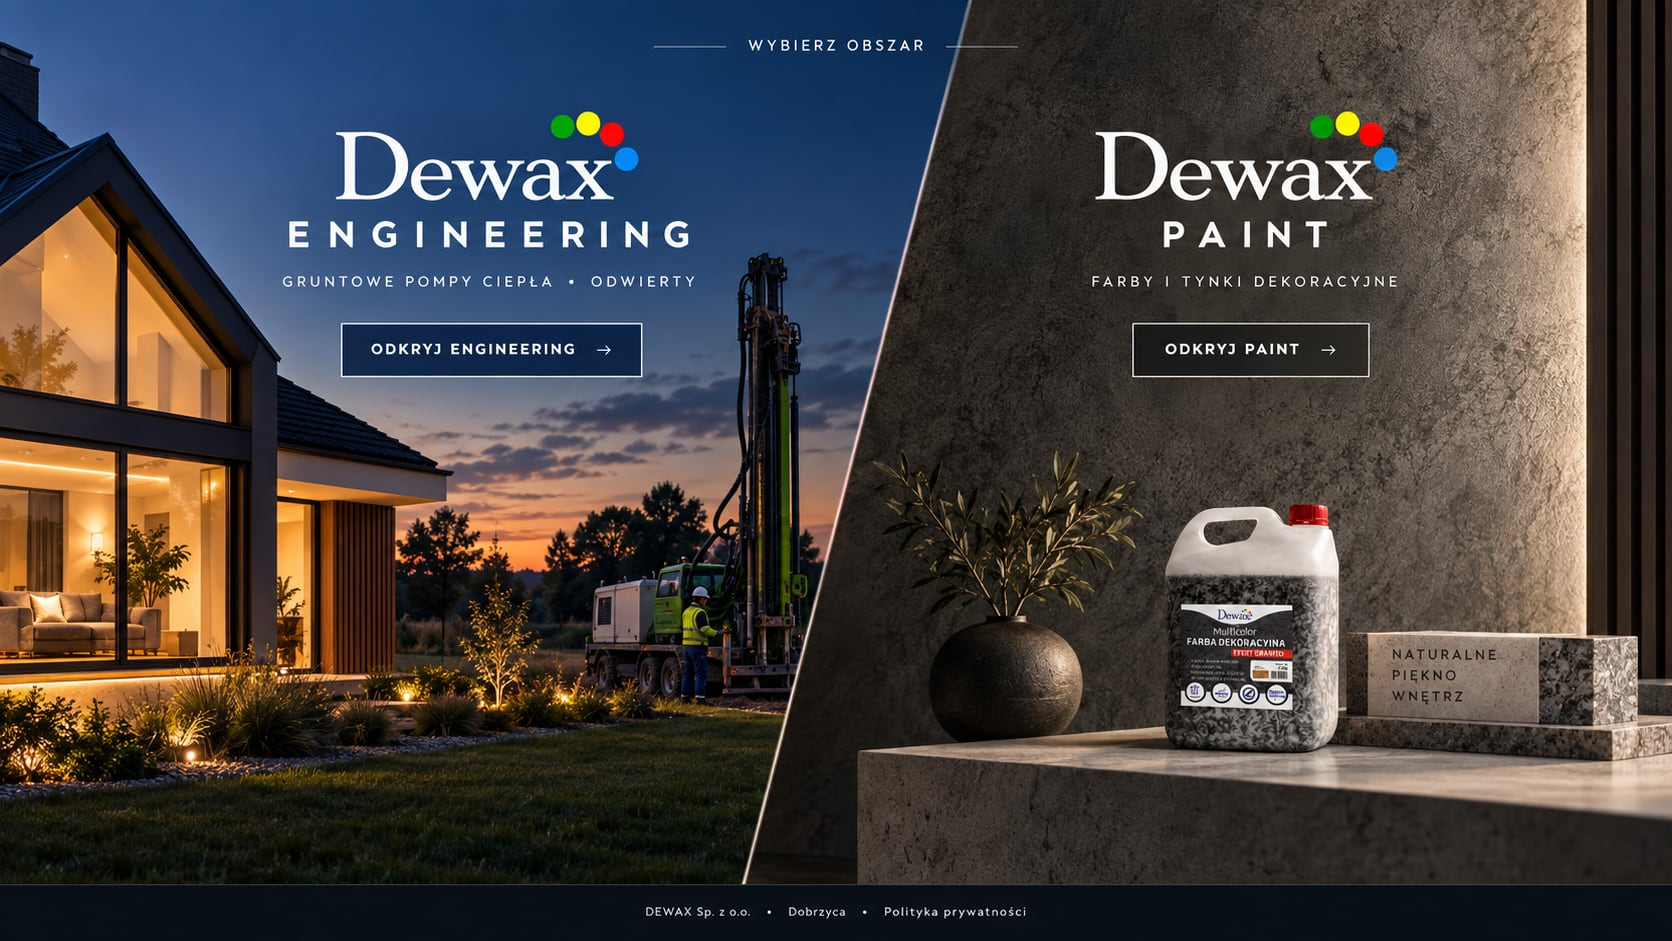
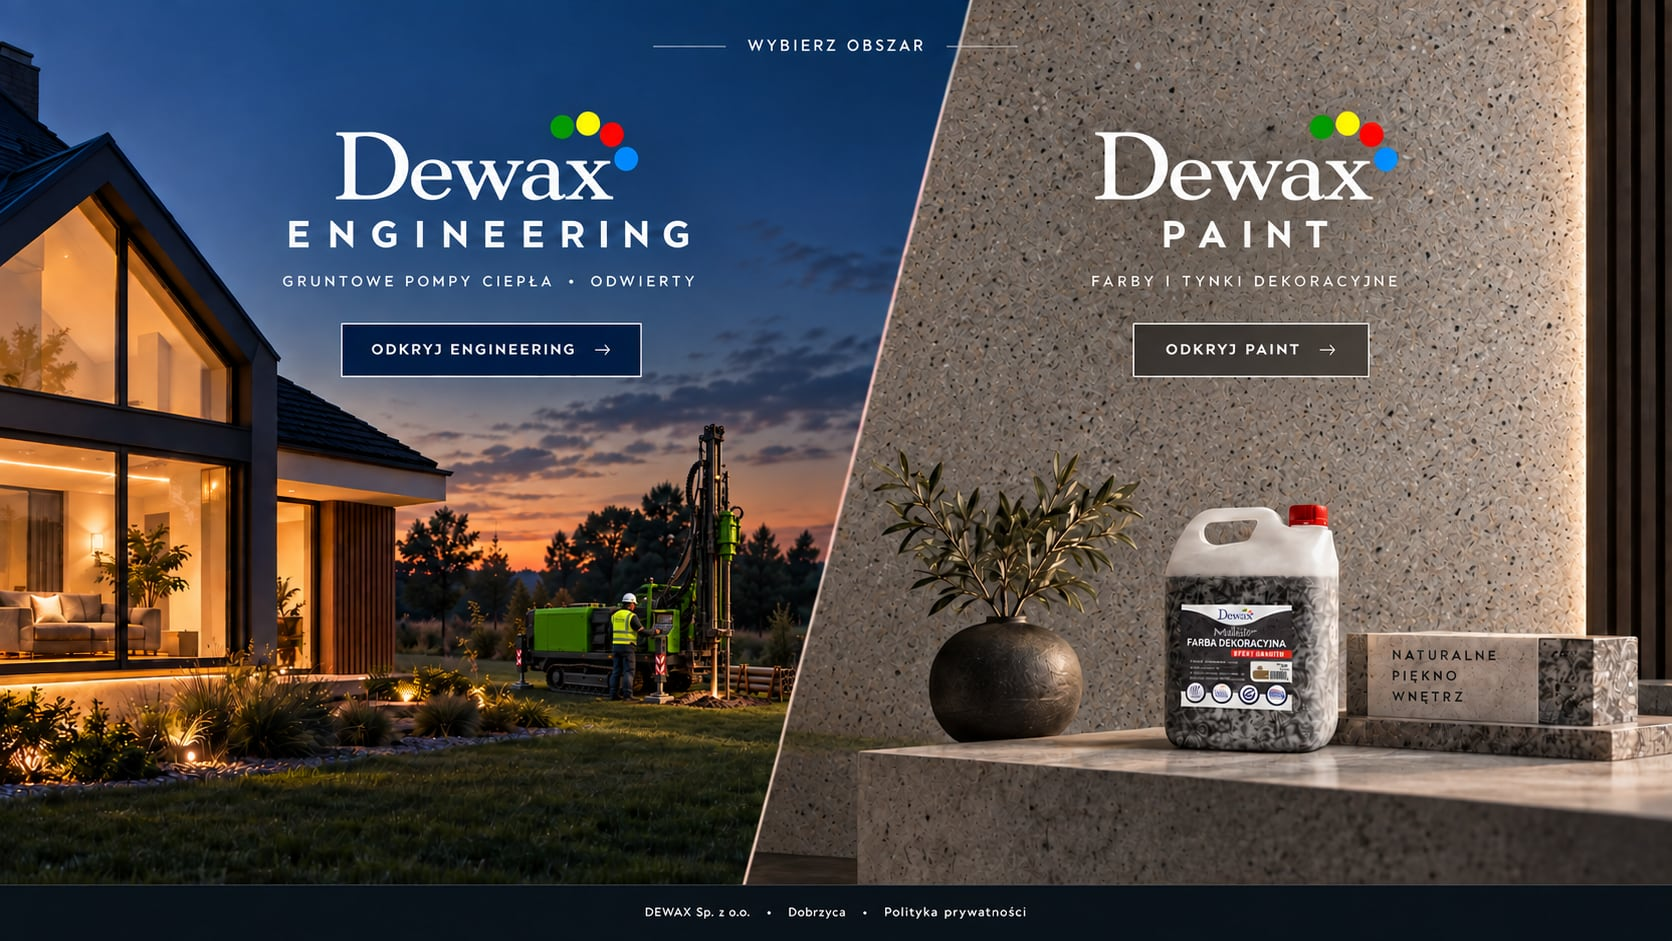
Bramka: nowa wersja grafiki (jasna ściana granitowa po stronie PAINT)

diff --git a/brama/index.html b/brama/index.html
@@ -38,15 +38,15 @@ a{color:inherit;text-decoration:none}
   <div class="tlo" aria-hidden="true">
     <picture>
       <source srcset="/brama.webp" type="image/webp">
-      <img src="/brama.jpg" alt="" fetchpriority="high" width="1672" height="941">
+      <img src="/brama.jpg" alt="" fetchpriority="high" width="1680" height="945">
     </picture>
   </div>
   <a class="dzial" href="https://pompy.dewax.pl/" aria-label="DEWAX Engineering: gruntowe pompy ciepła i odwierty. Odkryj Engineering">
-    <img class="polowa" src="/brama-lewa.webp" alt="DEWAX Engineering: gruntowe pompy ciepła, odwierty. Odkryj Engineering" width="836" height="941">
+    <img class="polowa" src="/brama-lewa.webp" alt="DEWAX Engineering: gruntowe pompy ciepła, odwierty. Odkryj Engineering" width="840" height="945">
     <span class="sr">DEWAX Engineering, gruntowe pompy ciepła i odwierty</span>
   </a>
   <a class="dzial" href="/multilan/" aria-label="DEWAX Paint: farby i tynki dekoracyjne, Multilan. Odkryj Paint">
-    <img class="polowa" src="/brama-prawa.webp" alt="DEWAX Paint: farby i tynki dekoracyjne. Odkryj Paint" width="836" height="941">
+    <img class="polowa" src="/brama-prawa.webp" alt="DEWAX Paint: farby i tynki dekoracyjne. Odkryj Paint" width="840" height="945">
     <span class="sr">DEWAX Paint, farby i tynki dekoracyjne</span>
   </a>
 </main>
